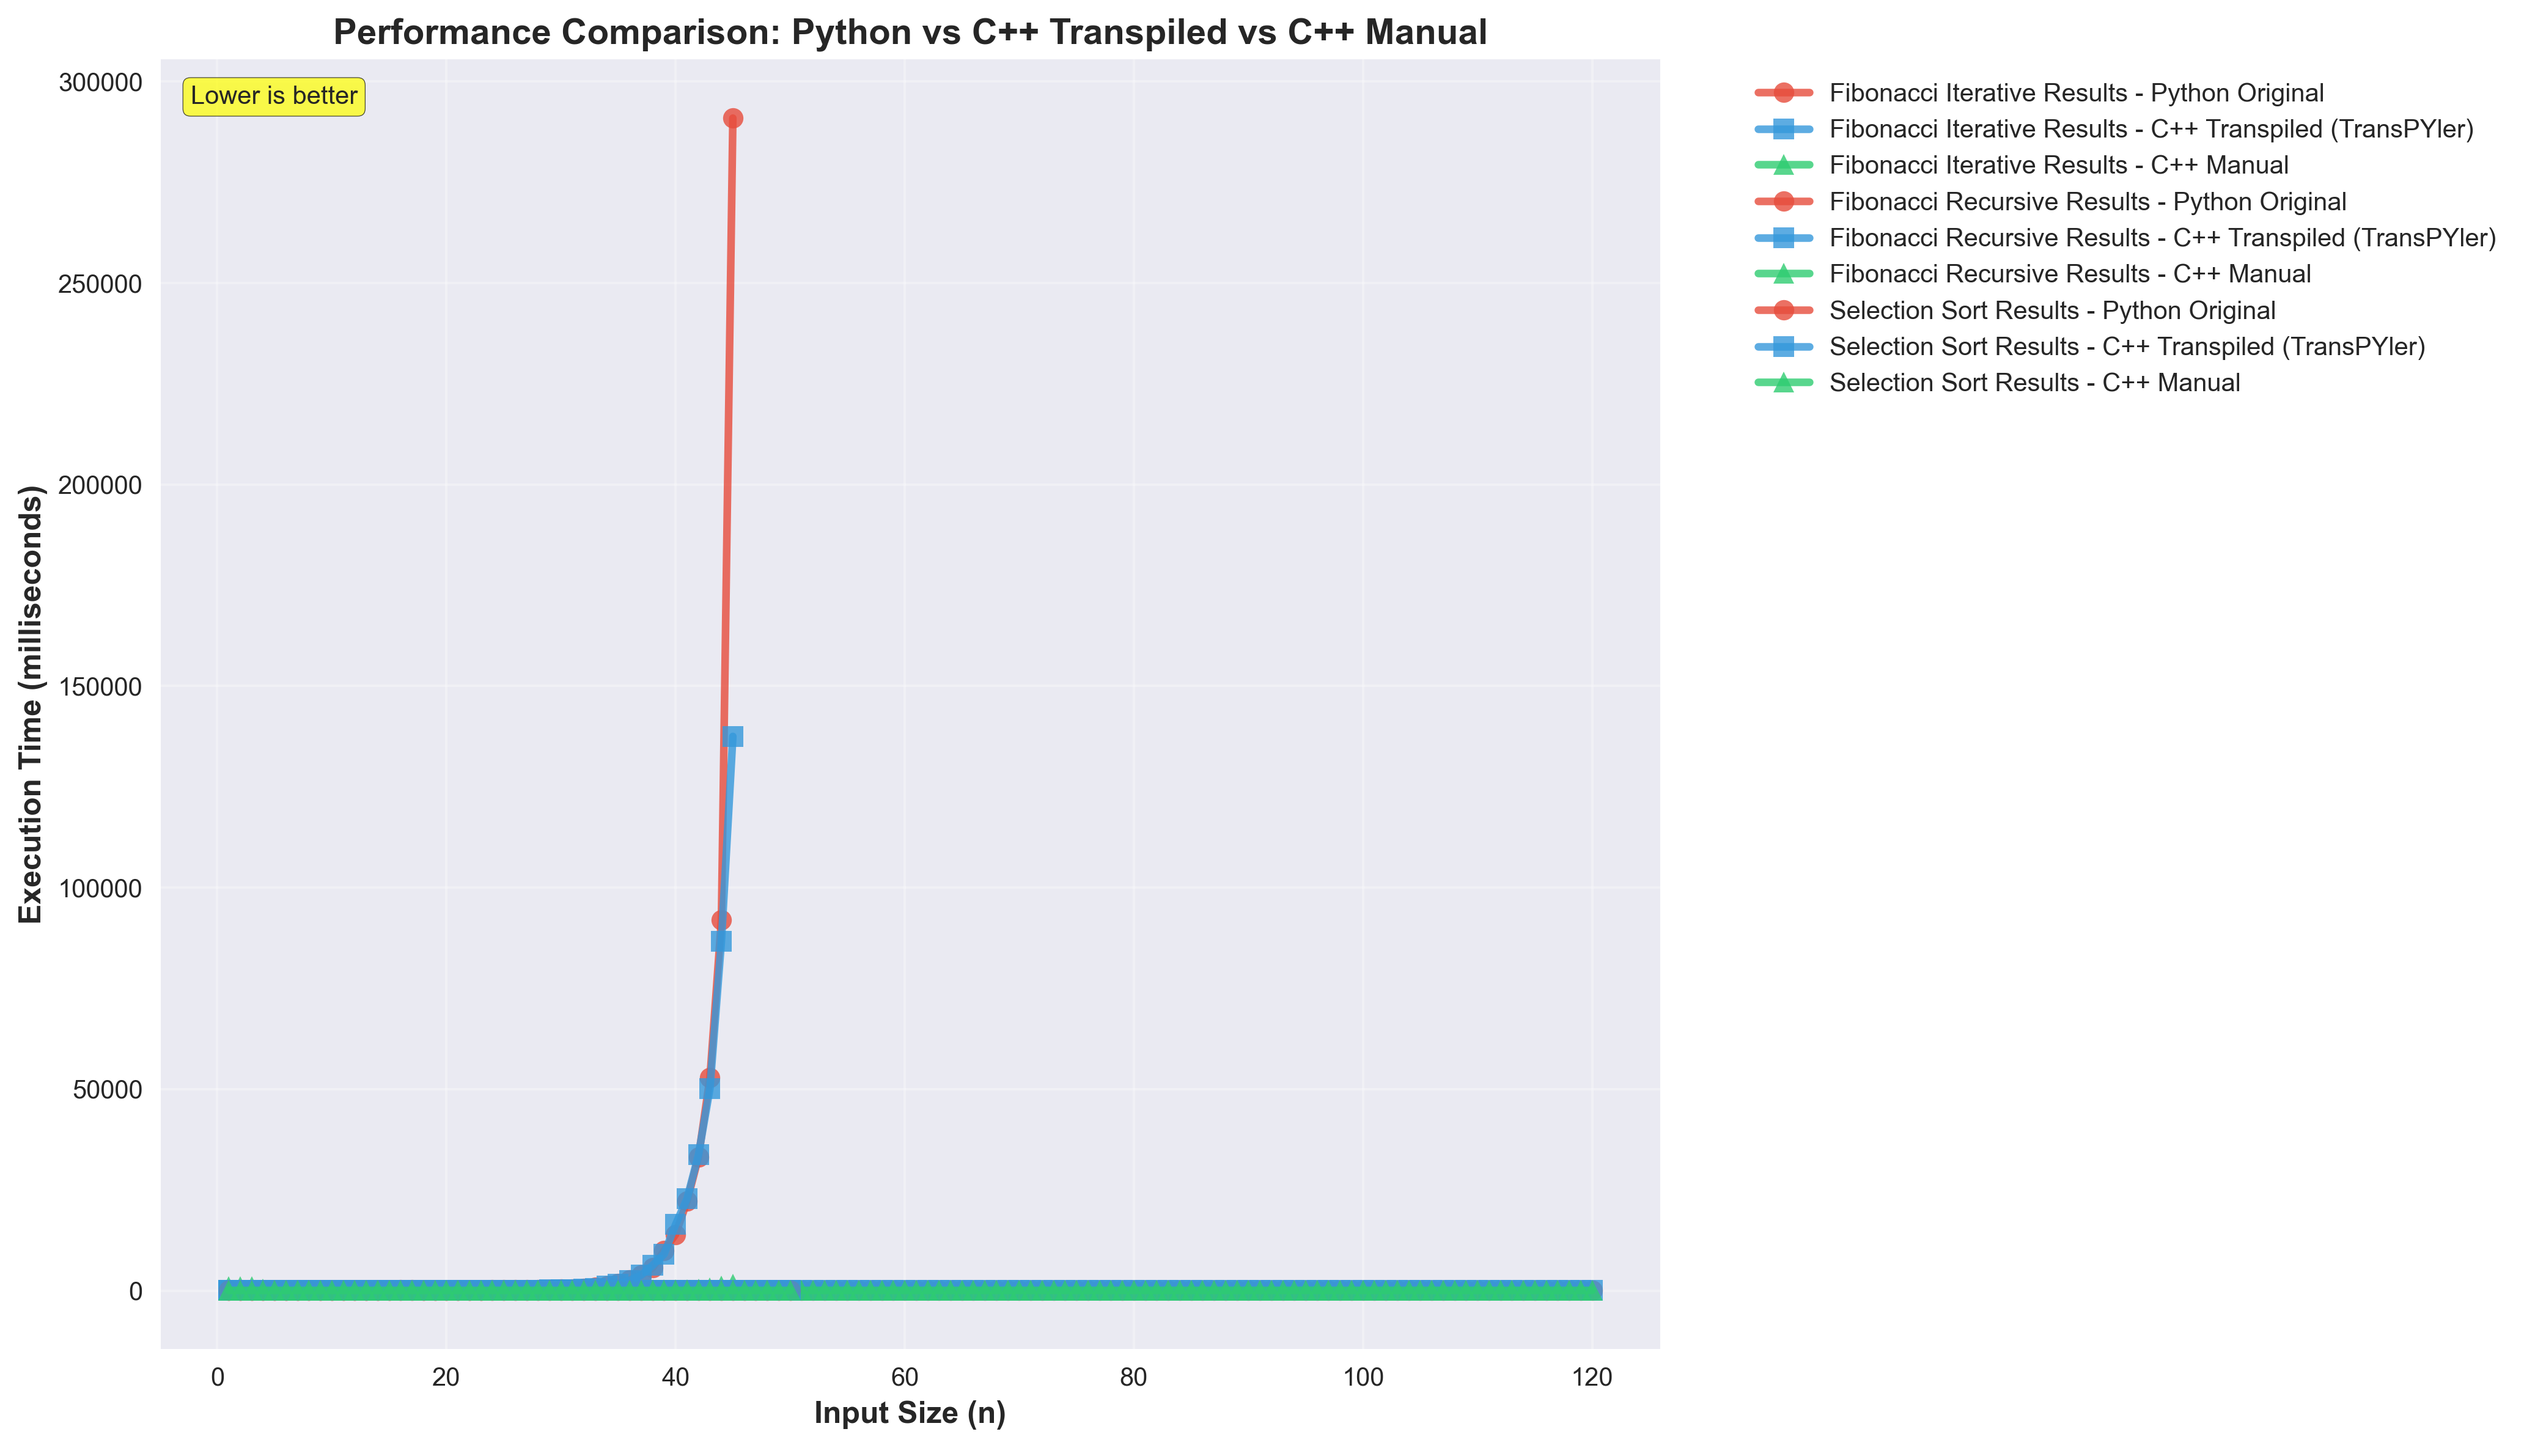
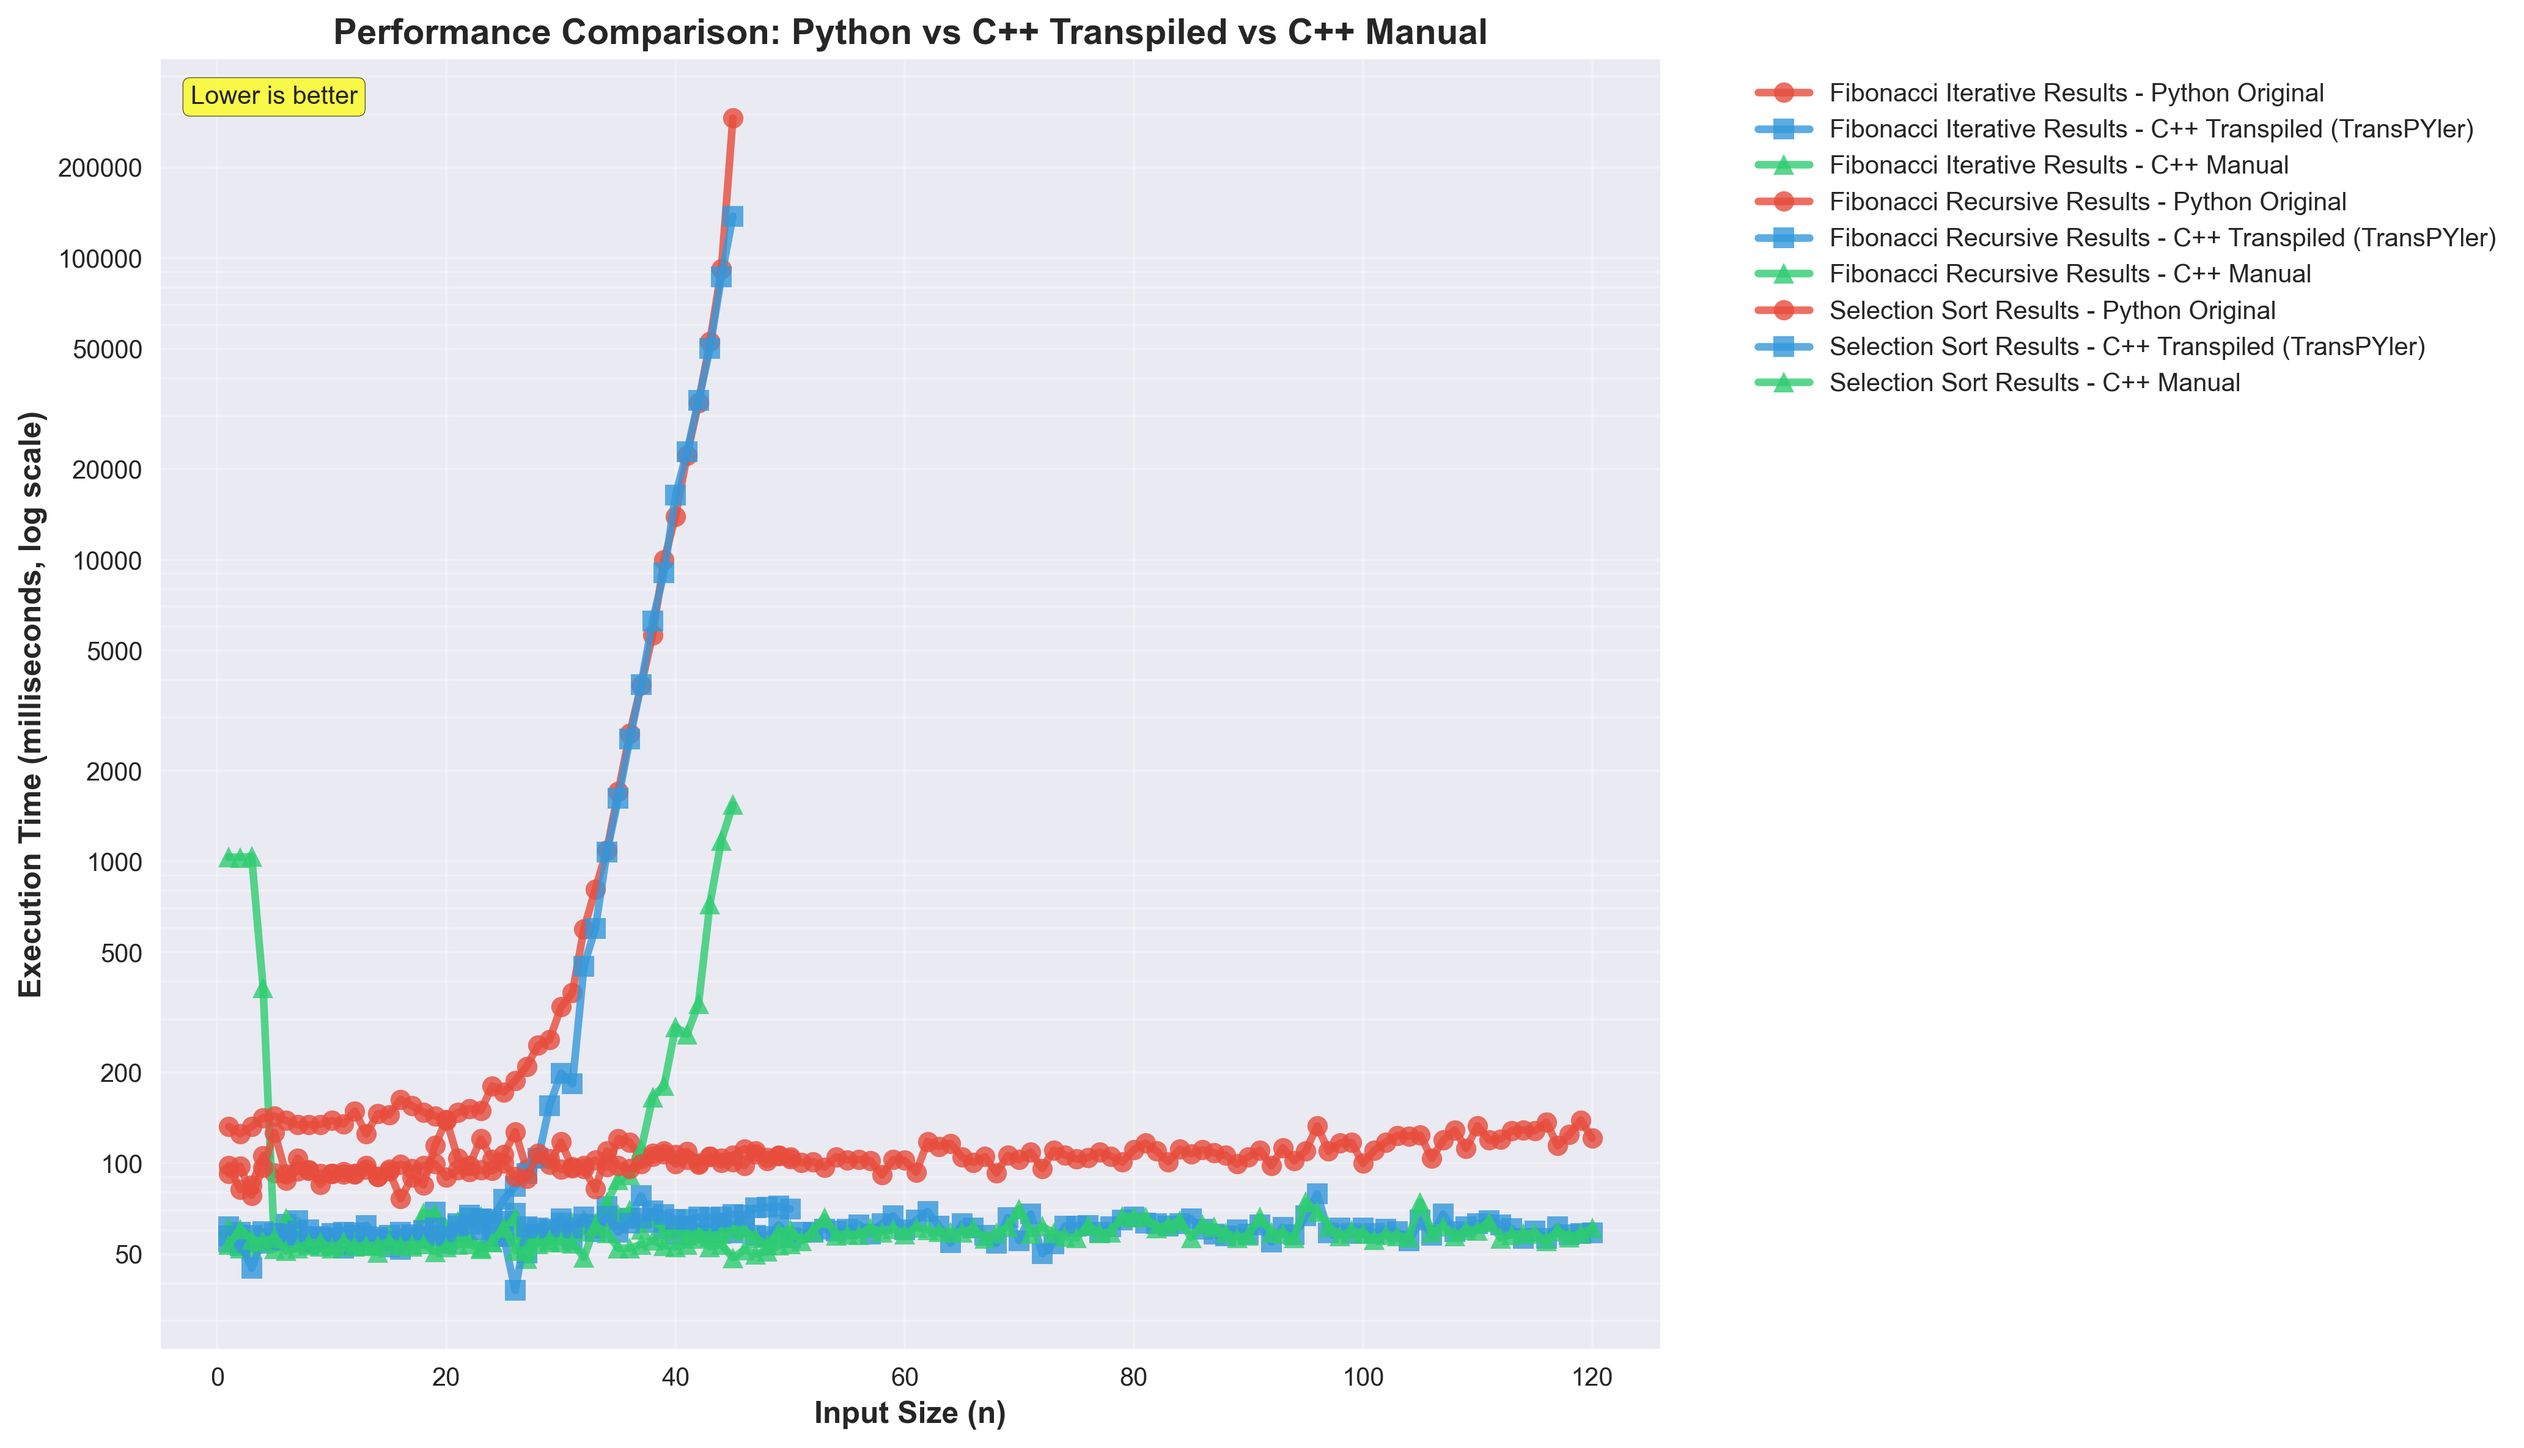
Changed to log scale in visualizer for graphs

diff --git a/src/benchmarks/csv_visualizer.py b/src/benchmarks/csv_visualizer.py
@@ -5,6 +5,7 @@ Generates essential comparison charts from benchmark CSV results
 
 import pandas as pd
 import matplotlib.pyplot as plt
+from matplotlib.ticker import FuncFormatter, LogLocator
 from pathlib import Path
 import sys
 
@@ -40,10 +41,21 @@ def generate_individual_algorithm_charts(csv_files, output_dir, suffix=""):
                 linewidth=3, markersize=8, color=colors[2], alpha=0.8)
         
         ax1.set_xlabel("Input Size (n)", fontsize=12, fontweight="bold")
-        ax1.set_ylabel("Execution Time (ms)", fontsize=12, fontweight="bold")
+        ax1.set_ylabel("Execution Time (ms, log scale)", fontsize=12, fontweight="bold")
         ax1.set_title(f"{algorithm} - Execution Times", fontsize=14, fontweight="bold")
+        ax1.set_yscale('log')  # Logarithmic scale for better visibility
+        
+        # Format Y-axis to show normal numbers instead of scientific notation
+        # Use 1-2-5 pattern for intermediate values
+        ax1.yaxis.set_major_locator(LogLocator(base=10.0, subs=(1.0, 2.0, 5.0), numticks=15))
+        ax1.yaxis.set_major_formatter(FuncFormatter(lambda x, p: f'{int(x)}' if x >= 1 else f'{x:.1f}'))
+        ax1.yaxis.set_minor_formatter(FuncFormatter(lambda x, p: ''))
+        
+        # Disable offset text that appears on the axis (e.g., "× 10¹")
+        ax1.yaxis.offsetText.set_visible(False)
+        
         ax1.legend()
-        ax1.grid(True, alpha=0.3)
+        ax1.grid(True, alpha=0.3, which='both')  # Show grid for both major and minor ticks
         
         # Right: Speedups
         ax2.plot(df["n"], df["speedup_transpiled"], "s-", label="C++ Transpiled Speedup", 
@@ -162,14 +174,26 @@ def visualize_benchmark_results(results_dir="benchmark_results"):
         )
 
     plt.xlabel("Input Size (n)", fontsize=12, fontweight="bold")
-    plt.ylabel("Execution Time (milliseconds)", fontsize=12, fontweight="bold")
+    plt.ylabel("Execution Time (milliseconds, log scale)", fontsize=12, fontweight="bold")
     plt.title(
         "Performance Comparison: Python vs C++ Transpiled vs C++ Manual",
         fontsize=14,
         fontweight="bold",
     )
+    plt.yscale('log')  # Logarithmic scale for better visibility of all implementations
+    
+    # Format Y-axis to show normal numbers instead of scientific notation
+    ax = plt.gca()
+    # Use 1-2-5 pattern for intermediate values
+    ax.yaxis.set_major_locator(LogLocator(base=10.0, subs=(1.0, 2.0, 5.0), numticks=15))
+    ax.yaxis.set_major_formatter(FuncFormatter(lambda x, p: f'{int(x)}' if x >= 1 else f'{x:.1f}'))
+    ax.yaxis.set_minor_formatter(FuncFormatter(lambda x, p: ''))
+    
+    # Disable offset text that appears on the axis (e.g., "× 10¹")
+    ax.yaxis.offsetText.set_visible(False)
+    
     plt.legend(bbox_to_anchor=(1.05, 1), loc="upper left")
-    plt.grid(True, alpha=0.3)
+    plt.grid(True, alpha=0.3, which='both')  # Show grid for both major and minor ticks
 
     # Add annotations
     plt.text(
